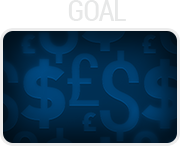
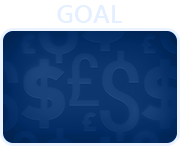
Adding new images.  Fixing style for overlay

diff --git a/resources/assets/sass/christmas/_components.scss b/resources/assets/sass/christmas/_components.scss
@@ -220,7 +220,7 @@
     background-color: $scroll-background;
     position:         absolute;
     left:             10px;
-    bottom:           7px;
+    bottom:           20px;
     height:           53px;
     width:            1189px;
     padding:          5px;
@@ -260,9 +260,9 @@
     background-size: 100% 100%;
     border-radius:   4px;
     right:           10px;
-    bottom:          10px;
+    bottom:          5px;
     font-size:       50px;
-    padding:         5px 10px;
+    padding:         0 10px;
   }
 
   .jingle {
@@ -278,8 +278,8 @@
 
   .logo {
     position: absolute;
-    right:    30px;
-    top:      85px;
+    right:    6px;
+    top:      -7px;
 
     img {
       display:       block;

diff --git a/resources/assets/js/components/Overlay/Parts/Logos.vue b/resources/assets/js/components/Overlay/Parts/Logos.vue
@@ -3,13 +3,7 @@
        v-if="settings.goal_mode == 'logos'"
        transition="fade"
   >
-    <img src="/img/overlay/Charities/Oxfam.png" />
-    <img src="/img/overlay/Charities/CancerResearch.png" />
-    <img src="/img/overlay/Charities/MentalHealth.png" />
-    <img src="/img/overlay/Charities/SpecialEffect.png" />
-    <img src="/img/overlay/Charities/MSF.png" />
-    <img src="/img/overlay/Charities/GamesAid.png" />
-    <img src="/img/overlay/Charities/Fauna.png" />
+    <img v-for="logo in logos" :src="logo.path" />
   </div>
 </template>
 <style>
@@ -21,6 +15,7 @@
   export default {
     data() {
       return {
+        logos:    app.logos,
         settings: app.settings,
       }
     },

diff --git a/database/seeds/AssetSeeder.php b/database/seeds/AssetSeeder.php
@@ -20,7 +20,11 @@ class AssetSeeder extends BaseSeeder
 
         $images = File::allFiles(public_path('img/overlay'));
 
-        $this->saveImages($images);
+        $this->saveImages($images, 0);
+
+        $images = File::allFiles(public_path('img/charities'));
+
+        $this->saveImages($images, 1);
     }
 
     private function getImageName(SplFileInfo $image)
@@ -34,7 +38,7 @@ class AssetSeeder extends BaseSeeder
     /**
      * @param $images
      */
-    private function saveImages($images)
+    private function saveImages($images, $charityFlag)
     {
         foreach ($images as $image) {
             $file = $image->getPath() . '/' . $image->getFilename();
@@ -43,10 +47,11 @@ class AssetSeeder extends BaseSeeder
             $file = Image::make($file);
 
             $attributes = [
-                'name'   => $this->getImageName($image),
-                'path'   => $path,
-                'width'  => $file->width(),
-                'height' => $file->height(),
+                'name'         => $this->getImageName($image),
+                'path'         => $path,
+                'width'        => $file->width(),
+                'height'       => $file->height(),
+                'charity_flag' => $charityFlag,
             ];
 
             Asset::create($attributes);

diff --git a/app/Services/Administrating/Http/Controllers/Overlay.php b/app/Services/Administrating/Http/Controllers/Overlay.php
@@ -3,6 +3,7 @@
 namespace App\Services\Administrating\Http\Controllers;
 
 use App\Http\Controllers\BaseController;
+use App\Services\Administrating\Models\Asset;
 use App\Services\Administrating\Models\Setting;
 use App\Services\Donating\Models\Goal;
 use App\Services\Donating\Models\Incentive;
@@ -21,13 +22,14 @@ class Overlay extends BaseController
     {
         $settings = $this->getSettings();
 
+        $logos     = $this->getLogos();
         $goal      = $this->getActiveGoal();
         $incentive = $this->getActiveIncentive();
         $raffle    = $this->getActiveRaffle();
         $vote      = $this->getActiveVote();
         $total     = $this->getCurrentTotal();
 
-        $this->setJavascriptData(compact('settings', 'goal', 'incentive', 'raffle', 'vote', 'total'));
+        $this->setJavascriptData(compact('settings', 'logos', 'goal', 'incentive', 'raffle', 'vote', 'total'));
 
         return $this->view();
     }
@@ -140,5 +142,13 @@ class Overlay extends BaseController
     private function getCurrentTotal()
     {
         return Total::orderBy('id', 'desc')->first();
+    }
+
+    /**
+     * @return mixed
+     */
+    private function getLogos()
+    {
+        return Asset::where('charity_flag', 1)->get();
     }
 }

diff --git a/resources/views/assets/edit.blade.php b/resources/views/assets/edit.blade.php
@@ -1,7 +1,7 @@
 <div class="container-fluid">
   <div class="row">
     <div class="col-md-offset-4 col-md-4 gray p-a-1">
-      <img src="/{{ $image->path }}" alt="" class="img-responsive m-x-auto" />
+      <img src="{{ $image->path }}" alt="" class="img-responsive m-x-auto" />
     </div>
   </div>
   <div class="row">
@@ -30,7 +30,7 @@
       <div class="m-x-auto" style="width: {{ $image->width }}px; max-width: 650px;">
         <div class="fileinput fileinput-new" data-provides="fileinput">
           <div class="fileinput-preview thumbnail" data-trigger="fileinput" style="width: {{ $image->width }}px; max-width: 650px;height: {{ $image->height }}px; max-height: 400px;">
-            <img src="/{{ $image->path }}" alt="">
+            <img src="{{ $image->path }}" alt="">
           </div>
           <div>
           <span class="btn btn-default btn-file btn-block">

diff --git a/database/migrations/2016_11_29_171038_add_charity_flag_to_assets.php b/database/migrations/2016_11_29_171038_add_charity_flag_to_assets.php
@@ -1,0 +1,32 @@
+<?php
+
+use Illuminate\Support\Facades\Schema;
+use Illuminate\Database\Schema\Blueprint;
+use Illuminate\Database\Migrations\Migration;
+
+class AddCharityFlagToAssets extends Migration
+{
+    /**
+     * Run the migrations.
+     *
+     * @return void
+     */
+    public function up()
+    {
+        Schema::table('assets', function (Blueprint $table) {
+            $table->boolean('charity_flag')->default(0)->after('height');
+        });
+    }
+
+    /**
+     * Reverse the migrations.
+     *
+     * @return void
+     */
+    public function down()
+    {
+        Schema::table('assets', function (Blueprint $table) {
+            $table->dropColumn(['charity_flag']);
+        });
+    }
+}

diff --git a/app/Services/Administrating/Http/Controllers/Assets.php b/app/Services/Administrating/Http/Controllers/Assets.php
@@ -30,7 +30,7 @@ class Assets extends BaseController
 
     public function index()
     {
-        $images = $this->assets->orderByNameAsc()->get();
+        $images = $this->assets->where('charity_flag', 0)->orderByNameAsc()->get();
 
         $this->setViewData(compact('images'));
 

diff --git a/app/Services/Administrating/Models/Asset.php b/app/Services/Administrating/Models/Asset.php
@@ -12,6 +12,7 @@ class Asset extends BaseModel
         'name',
         'path',
         'width',
-        'height'
+        'height',
+        'charity_flag',
     ];
 }
